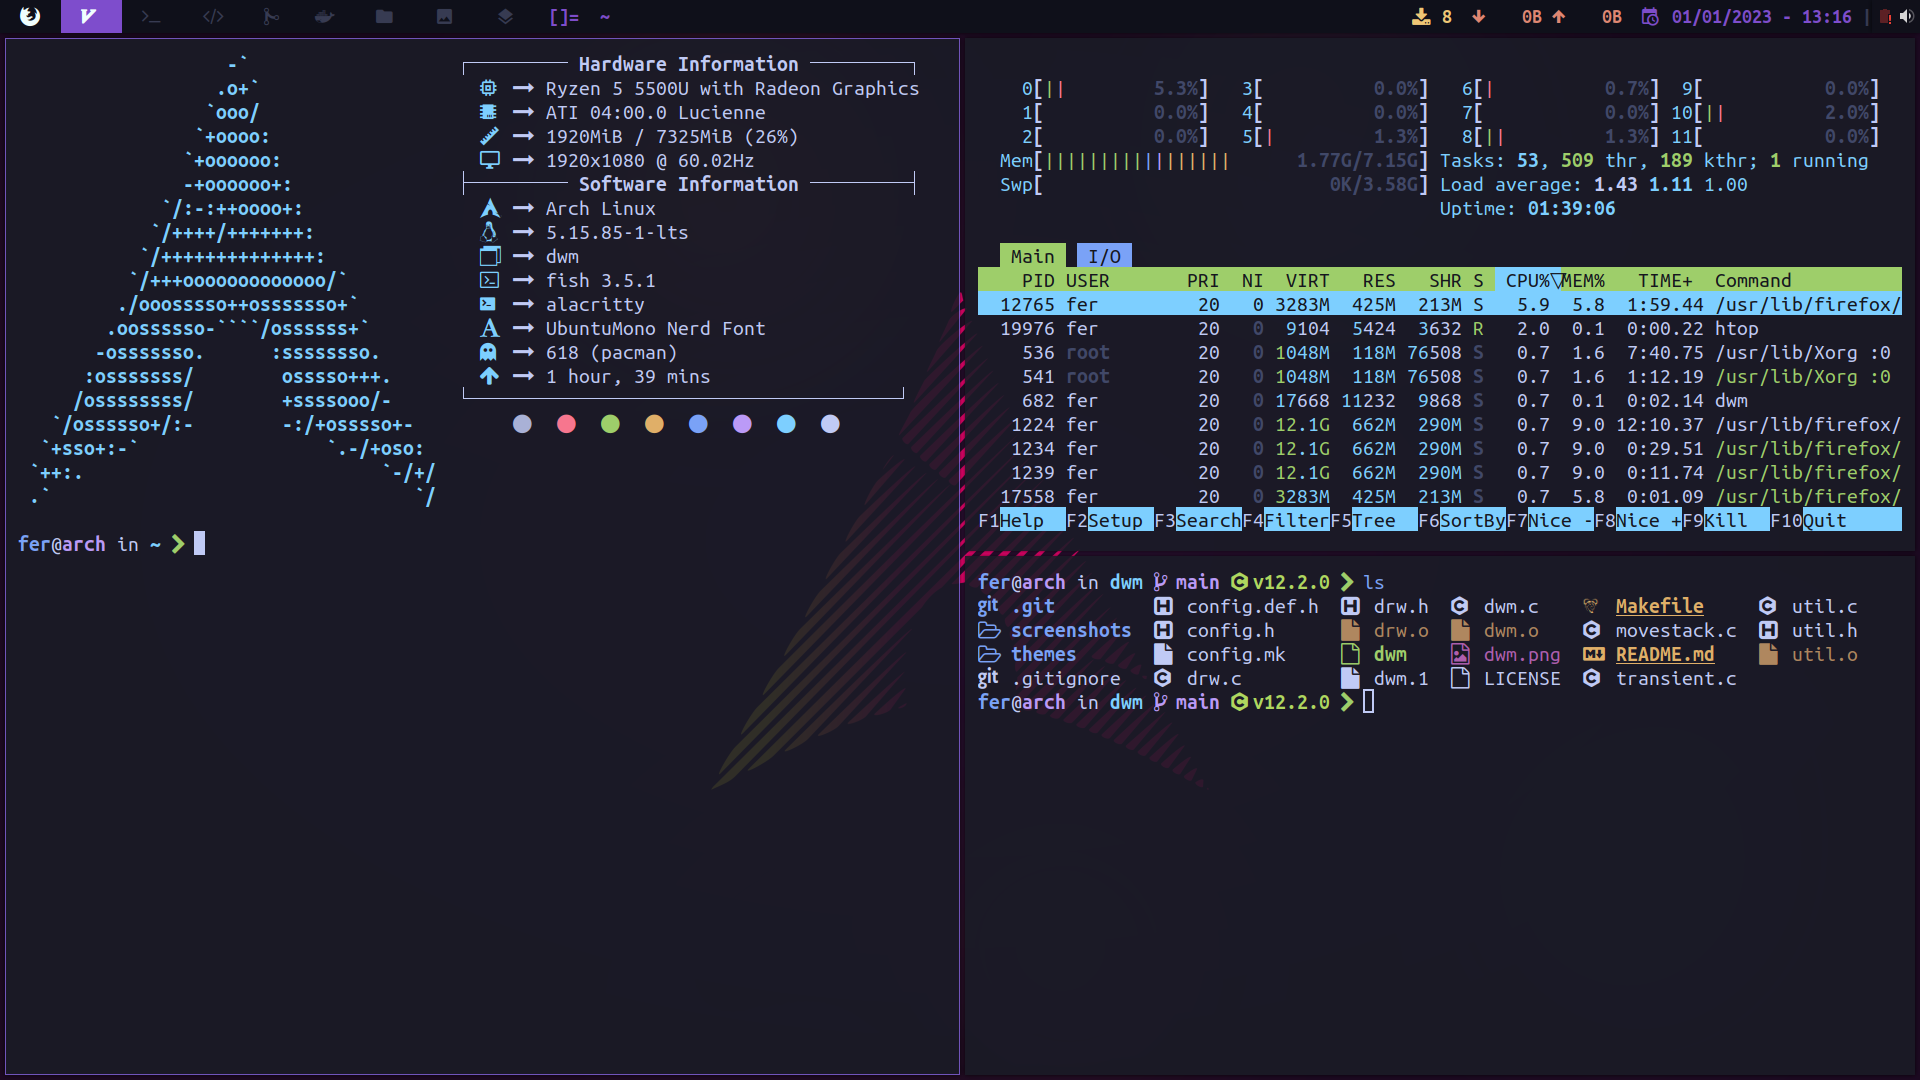
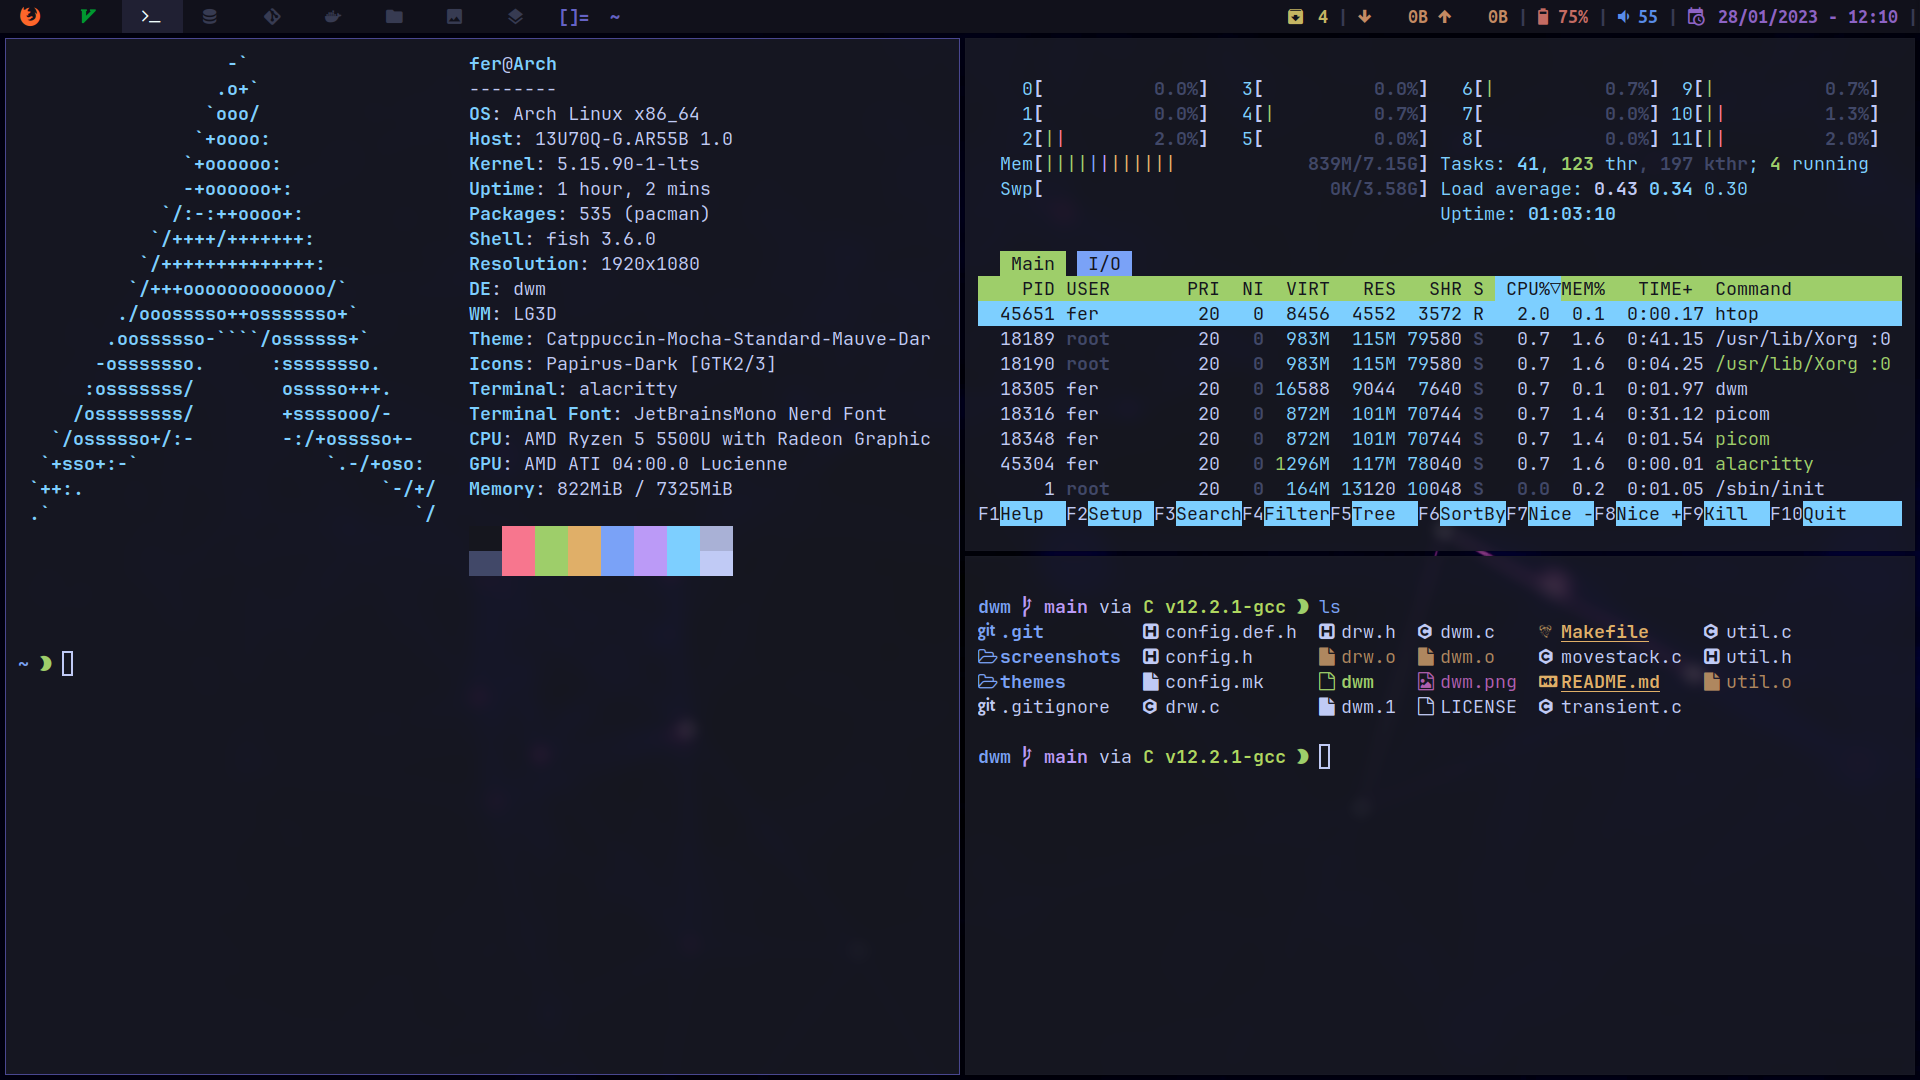
~ screenshots, major visual changes introduce

diff --git a/README.md b/README.md
@@ -1,7 +1,6 @@
 # ferDev27's custom build of DWM
 
-![dwm2](screenshots/dwm_2.png)
-![dwm3](screenshots/dwm_3.png)
+![dwm1](screenshots/dwm_1.png)
 
 # Contents
 - [Youtube showcase](#showcase)
